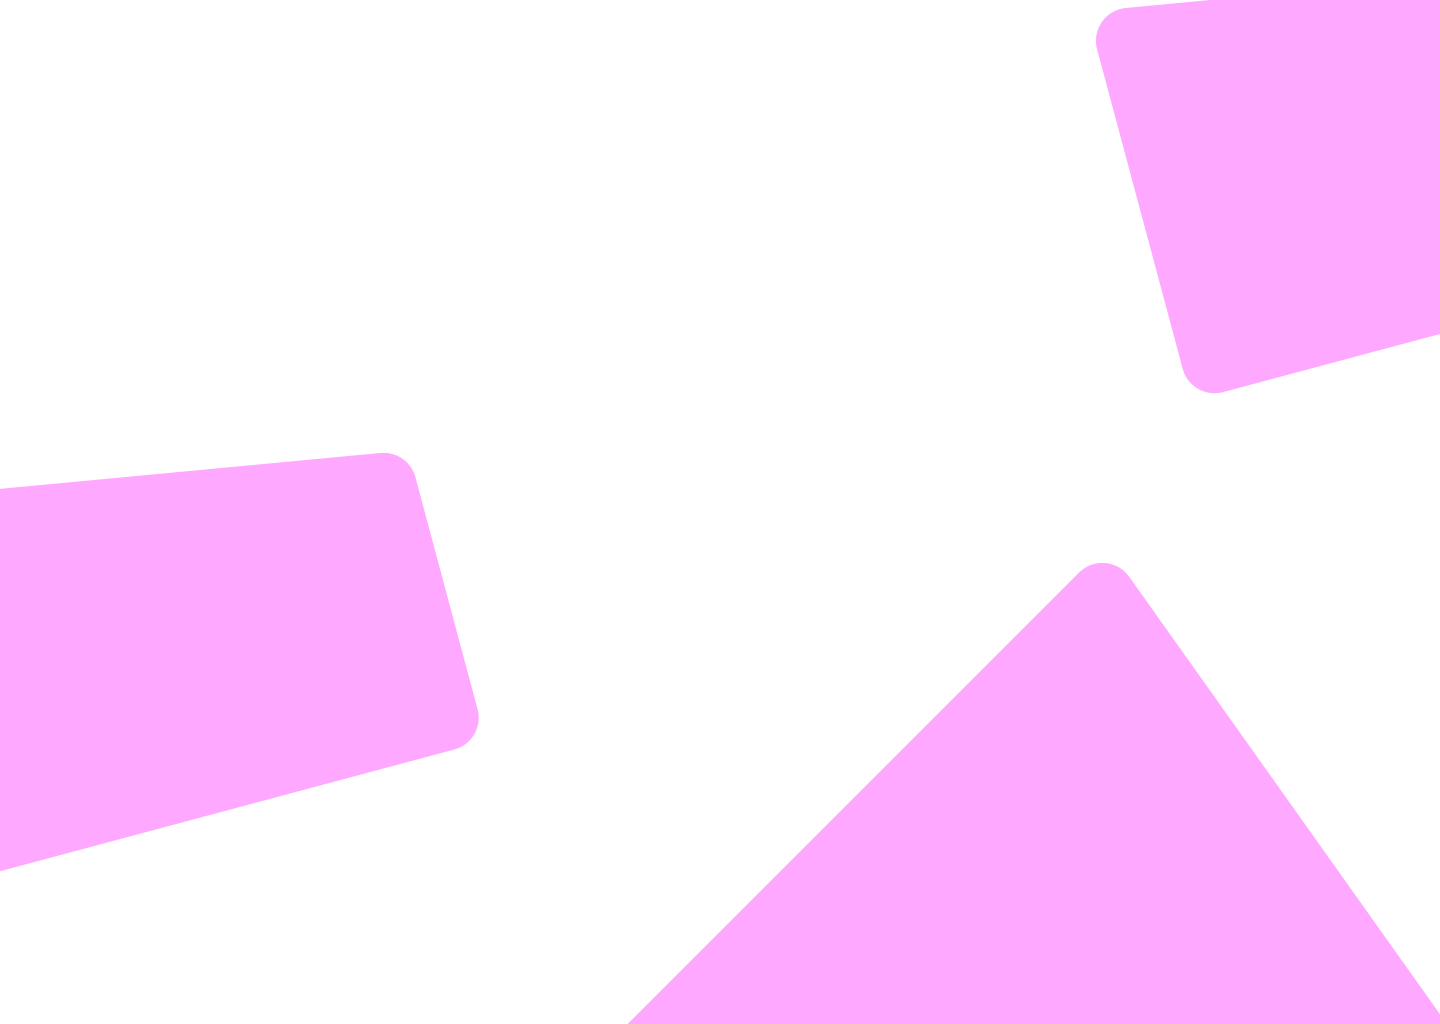
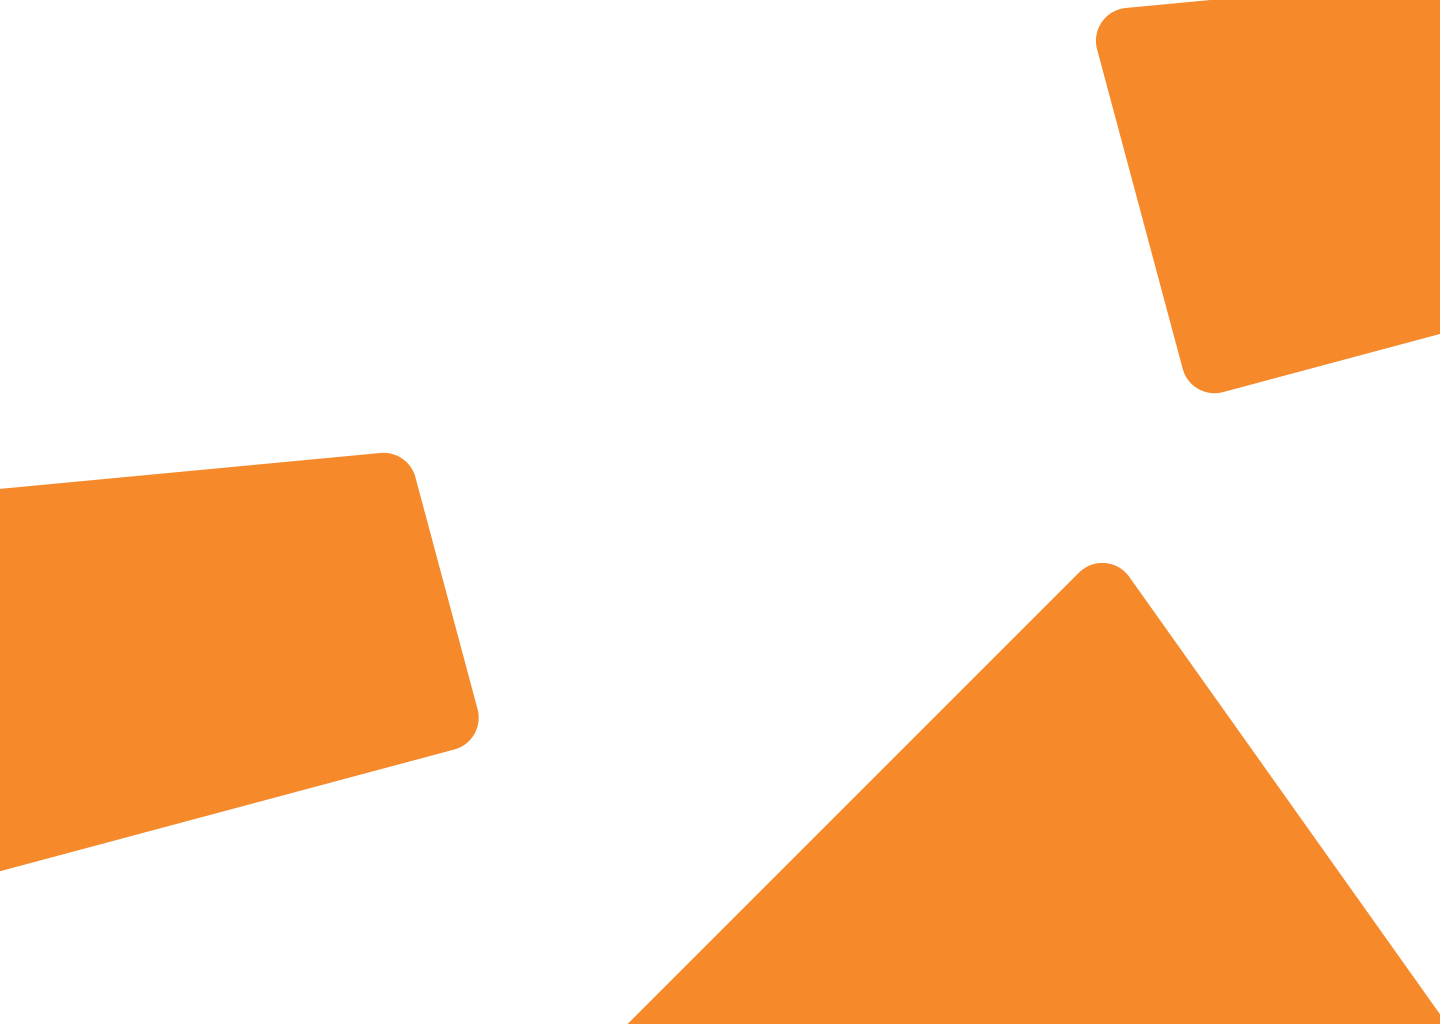
changed the brand colors and background image

diff --git a/app/assets/stylesheets/config/_bootstrap_variables.scss b/app/assets/stylesheets/config/_bootstrap_variables.scss
@@ -7,7 +7,7 @@
 // General style
 $font-family-sans-serif: $body-font;
 $headings-font-family:   $headers-font;
-$body-bg:                #FAF6FA;
+$body-bg:                #FFF5F0;
 $font-size-base:         1rem;
 
 // Colors

diff --git a/app/assets/stylesheets/config/_colors.scss b/app/assets/stylesheets/config/_colors.scss
@@ -10,6 +10,6 @@ $gray: #0e0000;
 $light-gray: #f4f4f4;
 
 // Brand colors
-$light-purple: #e2a0ff;
-$purple: #ad00fd;
-$dark-purple: #530077;
+$light-purple: #FFF5F0;
+$purple: #F6892A;
+$dark-purple: #EA3C48;
